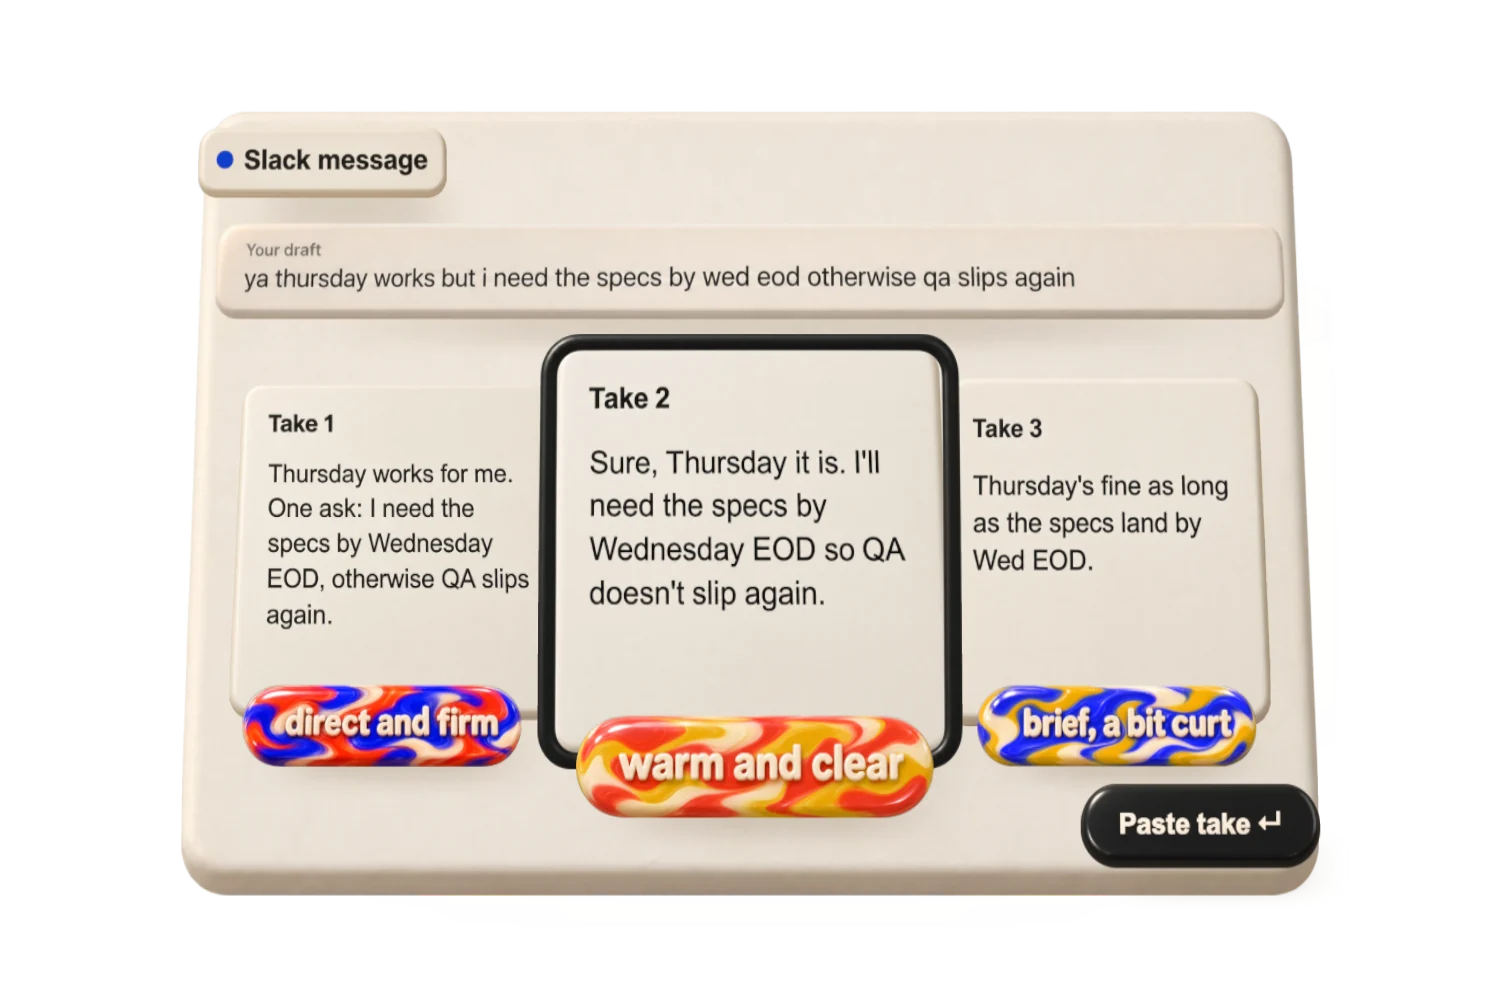
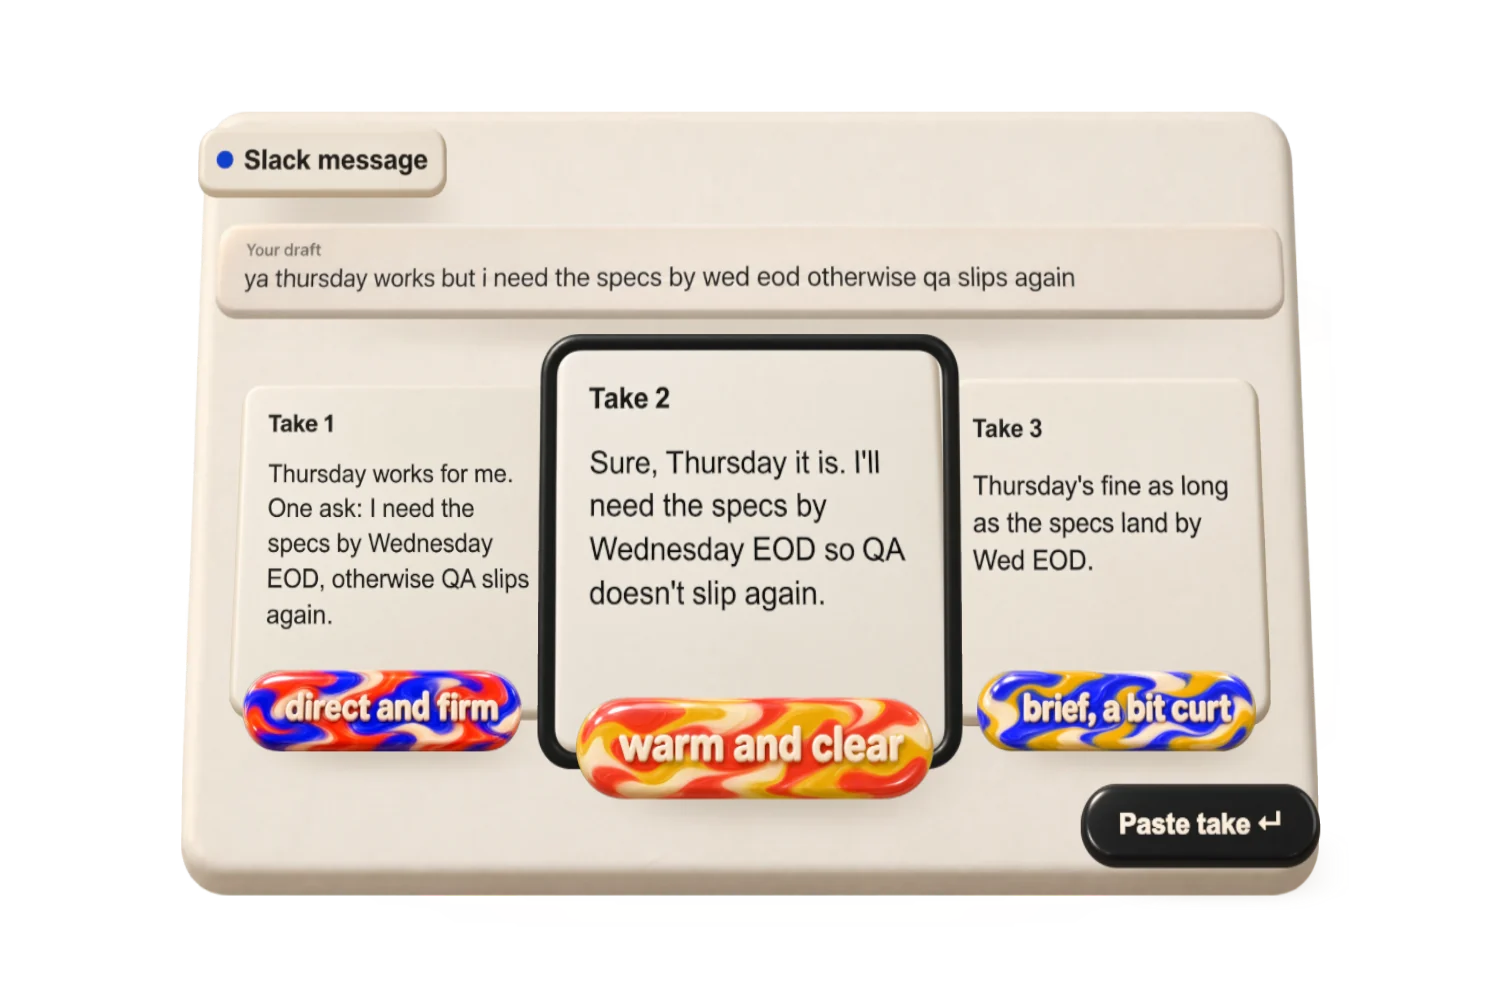
Site: the tone pills a little higher
Each pill overlaps its card's bottom edge by about a third instead of half.
The still is re-rendered.

Assisted-by: Claude Code

Changed region(s): [[0.1533, 0.651, 0.8587, 0.837]]

diff --git a/site/index.html b/site/index.html
@@ -407,7 +407,7 @@ fill="currentColor" stroke="none">
   <section class="product">
     <div class="wrap">
       <h2 class="display">Choice is the product.</h2>
-      <div class="layers" data-scene="takes" data-sprites="img/layers/parts" tabindex="0" aria-label="The Takes panel as floating layers: the draft above three takes of a Slack message, each with a note on how it may read. Point at a take, or use the arrow keys, to bring it to the front."><img src="img/layers/takes-front.webp?v=11" width="1500" height="1000" alt="The Takes panel as floating layers: the draft above three takes of a Slack message, each with a note on how it may read: direct and firm, warm and clear, brief and a bit curt. The middle take is lifted to the front."></div>
+      <div class="layers" data-scene="takes" data-sprites="img/layers/parts" tabindex="0" aria-label="The Takes panel as floating layers: the draft above three takes of a Slack message, each with a note on how it may read. Point at a take, or use the arrow keys, to bring it to the front."><img src="img/layers/takes-front.webp?v=12" width="1500" height="1000" alt="The Takes panel as floating layers: the draft above three takes of a Slack message, each with a note on how it may read: direct and firm, warm and clear, brief and a bit curt. The middle take is lifted to the front."></div>
       <p class="caption">Compare complete alternatives and how each may read. Inspect changes, refine a selected take, then paste it back.</p>
     </div>
   </section>
@@ -560,7 +560,7 @@ fill="currentColor" stroke="none">
     const twin = (slide) => { const sc = slide.querySelector(".slide-stage")?.dataset.scene; return all.filter((s) => s !== slide && s.querySelector(".slide-stage")?.dataset.scene === sc); };
     const wake = async (slide) => { const st = slide.querySelector(".slide-stage"); if (!st || live.has(st)) return; live.set(st, null);
       if (slide.dataset.clone) twin(slide).forEach((t) => { wake(t); const k = all.indexOf(t); if (live.size < 8) [all[k - 1], all[k + 1]].forEach((nb) => nb && wake(nb)); }); // a few contexts at most
-      try { lib = lib || await import("./js/layers.js?v=27");
+      try { lib = lib || await import("./js/layers.js?v=28");
         if (!live.has(st)) return;
         live.set(st, lib.mount(st, st.dataset.scene, { interactive: true, sprites: st.dataset.sprites, card: true, onReady: () => st.classList.add("live") }));
       } catch (err) { console.warn("layers: slide failed", st.dataset.scene, err); live.delete(st); } };
@@ -580,7 +580,7 @@ fill="currentColor" stroke="none">
   if (el && "IntersectionObserver" in window) {
     const io = new IntersectionObserver(async ([e]) => {
       if (!e.isIntersecting) return; io.disconnect();
-      try { const { mount } = await import("./js/layers.js?v=27"); mount(el, el.dataset.scene, { interactive: true, sprites: el.dataset.sprites, clips: "clips" in el.dataset, onReady: () => el.classList.add("live") }); }
+      try { const { mount } = await import("./js/layers.js?v=28"); mount(el, el.dataset.scene, { interactive: true, sprites: el.dataset.sprites, clips: "clips" in el.dataset, onReady: () => el.classList.add("live") }); }
       catch { /* no WebGL or offline: keep the still */ }
     }, { rootMargin: "300px" });
     io.observe(el);

diff --git a/site/js/layers.js b/site/js/layers.js
@@ -122,7 +122,7 @@ const SCENES = {
       const note = tile(renderer, { w: 0.8 + measure(tone, 24), h: 0.54, r: 0.27, depth: 0.12, bg: C.ink,
         draw: (c, cw, ch) => { dot(c, 30, ch / 2, 8, dotColor); text(c, tone, 50, ch / 2 + 9, { size: 24, weight: 700, color: C.paper }); } });
       note.userData.face.material.alphaTest = 0.5; // its clear corners mustn't hide the card render behind them
-      note.userData.keep = note.userData.tone = true; card.add(place(note, -1.5 + 0.26 + note.userData.w / 2, -1.42, card.userData.top + 0.26, "tone" + (i + 1)));
+      note.userData.keep = note.userData.tone = true; card.add(place(note, -1.5 + 0.26 + note.userData.w / 2, -1.30, card.userData.top + 0.26, "tone" + (i + 1)));
       card.userData.home = new THREE.Vector3(-3.15 + i * 3.15, -0.45, 0.95);
       root.add(place(card, ...card.userData.home.toArray(), "take" + (i + 1))); return card;
     });
